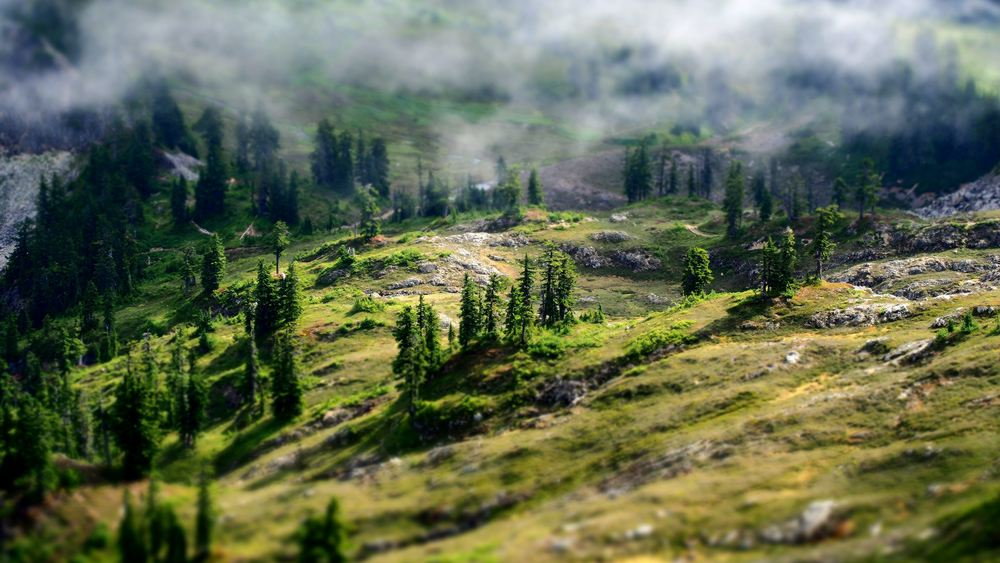
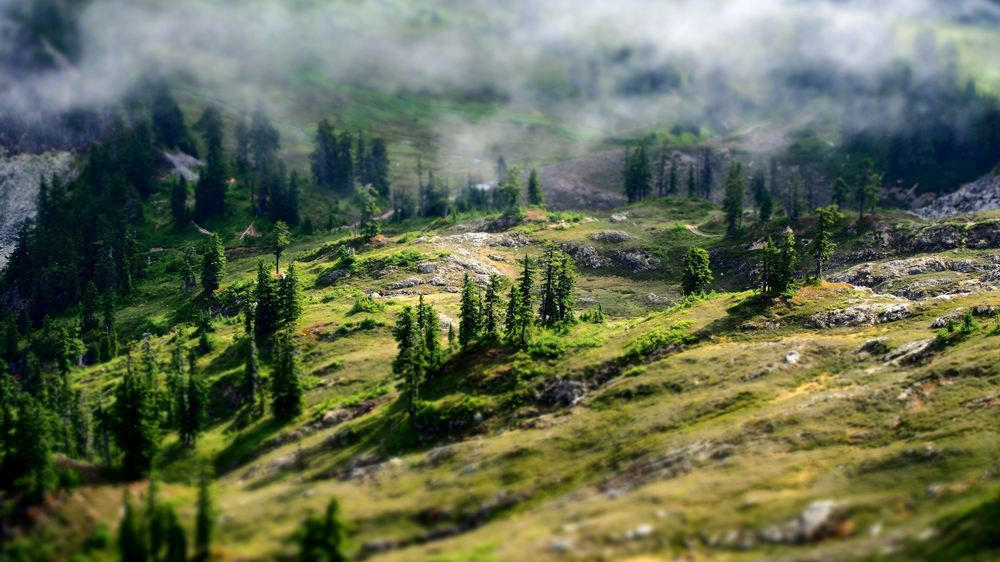
minor: overwrite uncropped images

diff --git a/frontend/pages/index.tsx b/frontend/pages/index.tsx
@@ -57,12 +57,12 @@ type SpotlightDescription = {
 }
 
 const RESEARCH_FIELDS = [
-  {key: 1, name: 'Energy', img: '/images/pexels-pixabay-414837-transition.jpg'},
-  {key: 2, name: 'Earth & Environment', img: '/images/pexels-blue-ox-studio-695299-transition.jpg'},
-  {key: 3, name: 'Health', img: '/images/pexels-rfstudio-3825529-transition.jpg'},
-  {key: 4, name: 'Information', img: '/images/jj-ying-8bghKxNU1j0-unsplash-transition.jpg'},
-  {key: 5, name: 'Aeronautics, Space and Transport', img: '/images/pexels-aleksejs-bergmanis-681335-transition.jpg'},
-  {key: 6, name: 'Matter', img: '/images/desy_yulia-buchatskaya-hYvZHggmuc4-unsplash-transition.jpg'},
+  {key: 1, name: 'Energy', img: '/images/pexels-pixabay-414837.jpg'},
+  {key: 2, name: 'Earth & Environment', img: '/images/pexels-blue-ox-studio-695299.jpg'},
+  {key: 3, name: 'Health', img: '/images/pexels-rfstudio-3825529.jpg'},
+  {key: 4, name: 'Information', img: '/images/jj-ying-8bghKxNU1j0-unsplash.jpg'},
+  {key: 5, name: 'Aeronautics, Space and Transport', img: '/images/pexels-aleksejs-bergmanis-681335.jpg'},
+  {key: 6, name: 'Matter', img: '/images/desy_yulia-buchatskaya-hYvZHggmuc4-unsplash.jpg'},
 ]
 
 const SPOTLIGHTS= [
@@ -315,7 +315,7 @@ export default function Home({organisations=[]}:{organisations: OrganisationForO
   const resetBackgroundImage = (event: React.MouseEvent<HTMLDivElement>) => {
     if (!(event.target instanceof HTMLDivElement)) return
     if (!(event.target.id === 'backgroundContainer')) return
-    event.target.style.backgroundImage = 'url("/images/pexels-olena-bohovyk-3646172-transition.jpg")'
+    event.target.style.backgroundImage = 'url("/images/pexels-olena-bohovyk-3646172.jpg")'
   }
 
 
@@ -400,7 +400,7 @@ export default function Home({organisations=[]}:{organisations: OrganisationForO
         <div className="conainer mx-auto my-10 max-w-screen-xl text-white bg-secondary">
           <div
             id="backgroundContainer"
-            className="w-full h-full p-12 bg-blend-multiply bg-center bg-cover bg-secondary bg-opacity-75 bg-[url(/images/pexels-olena-bohovyk-3646172-transition.jpg)]"
+            className="w-full h-full p-12 bg-blend-multiply bg-center bg-cover bg-secondary bg-opacity-75 bg-[url(/images/pexels-olena-bohovyk-3646172.jpg)]"
             style={backgroundTransitionStyle}
             onMouseLeave={resetBackgroundImage}>
             <h2 className='text-5xl'>Discover software by research topic</h2>
